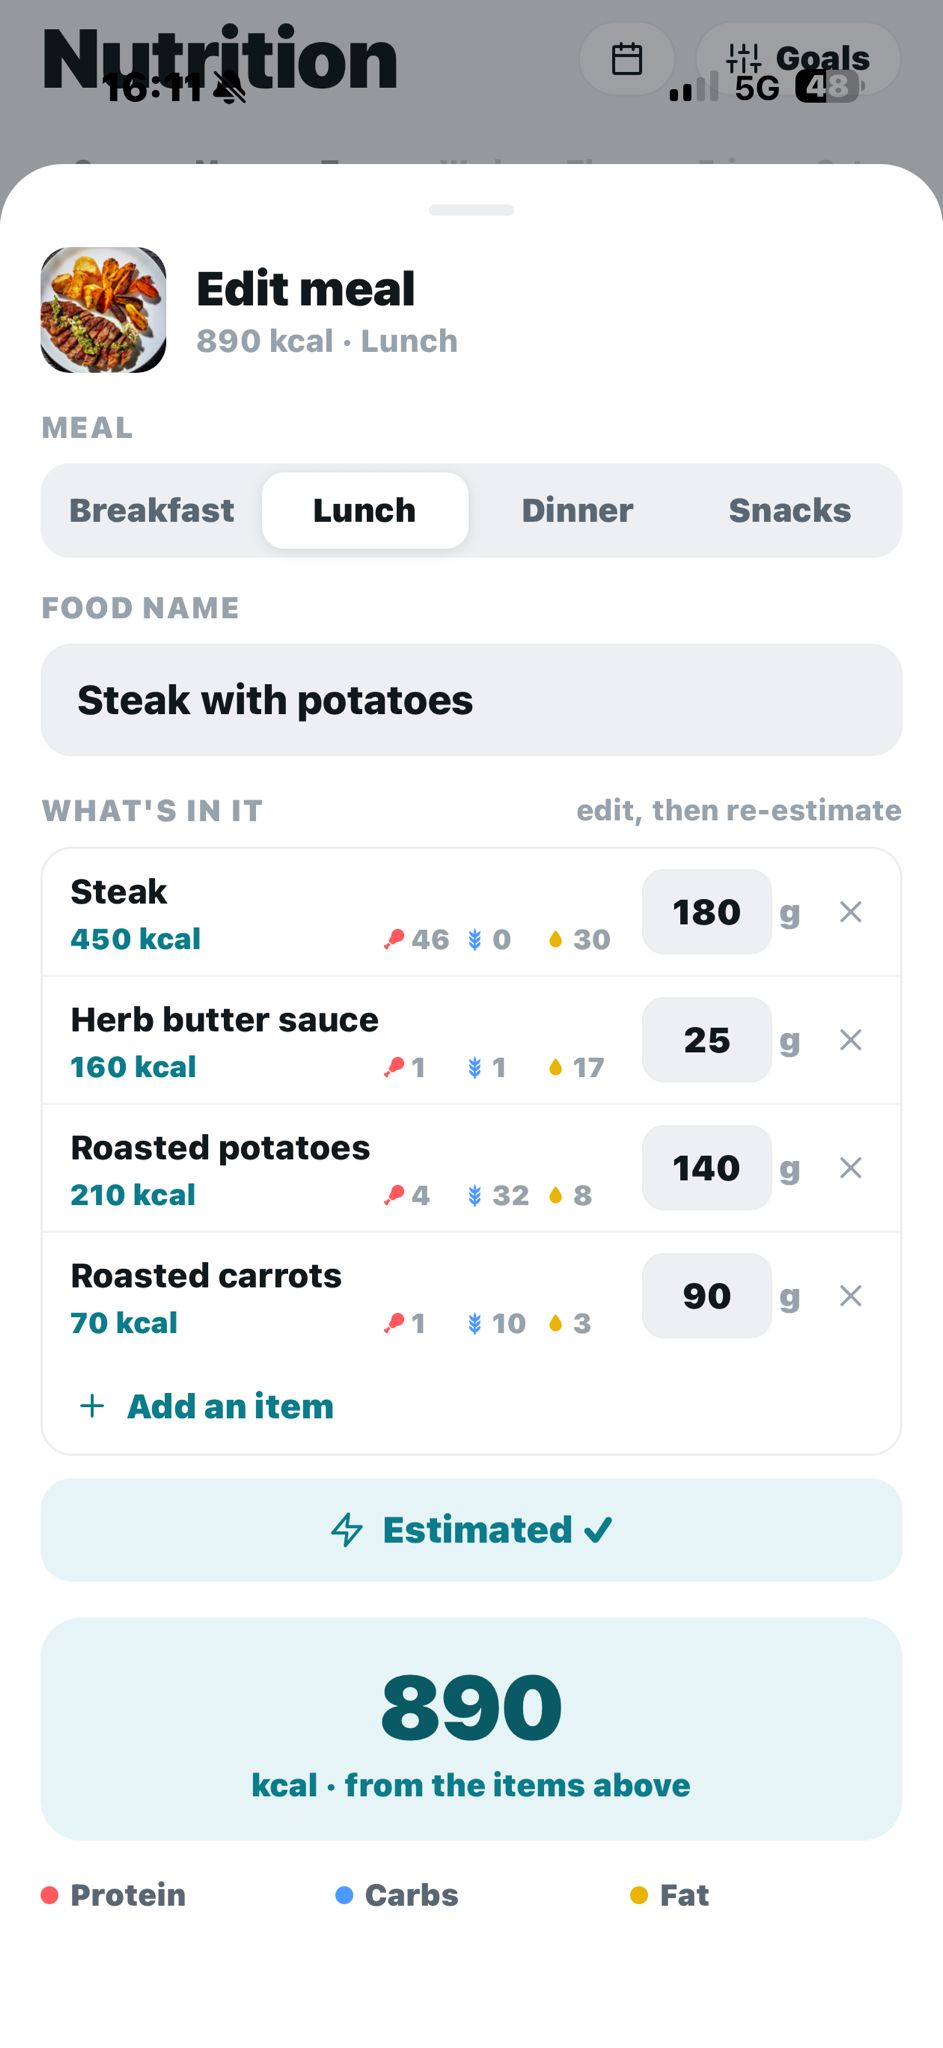
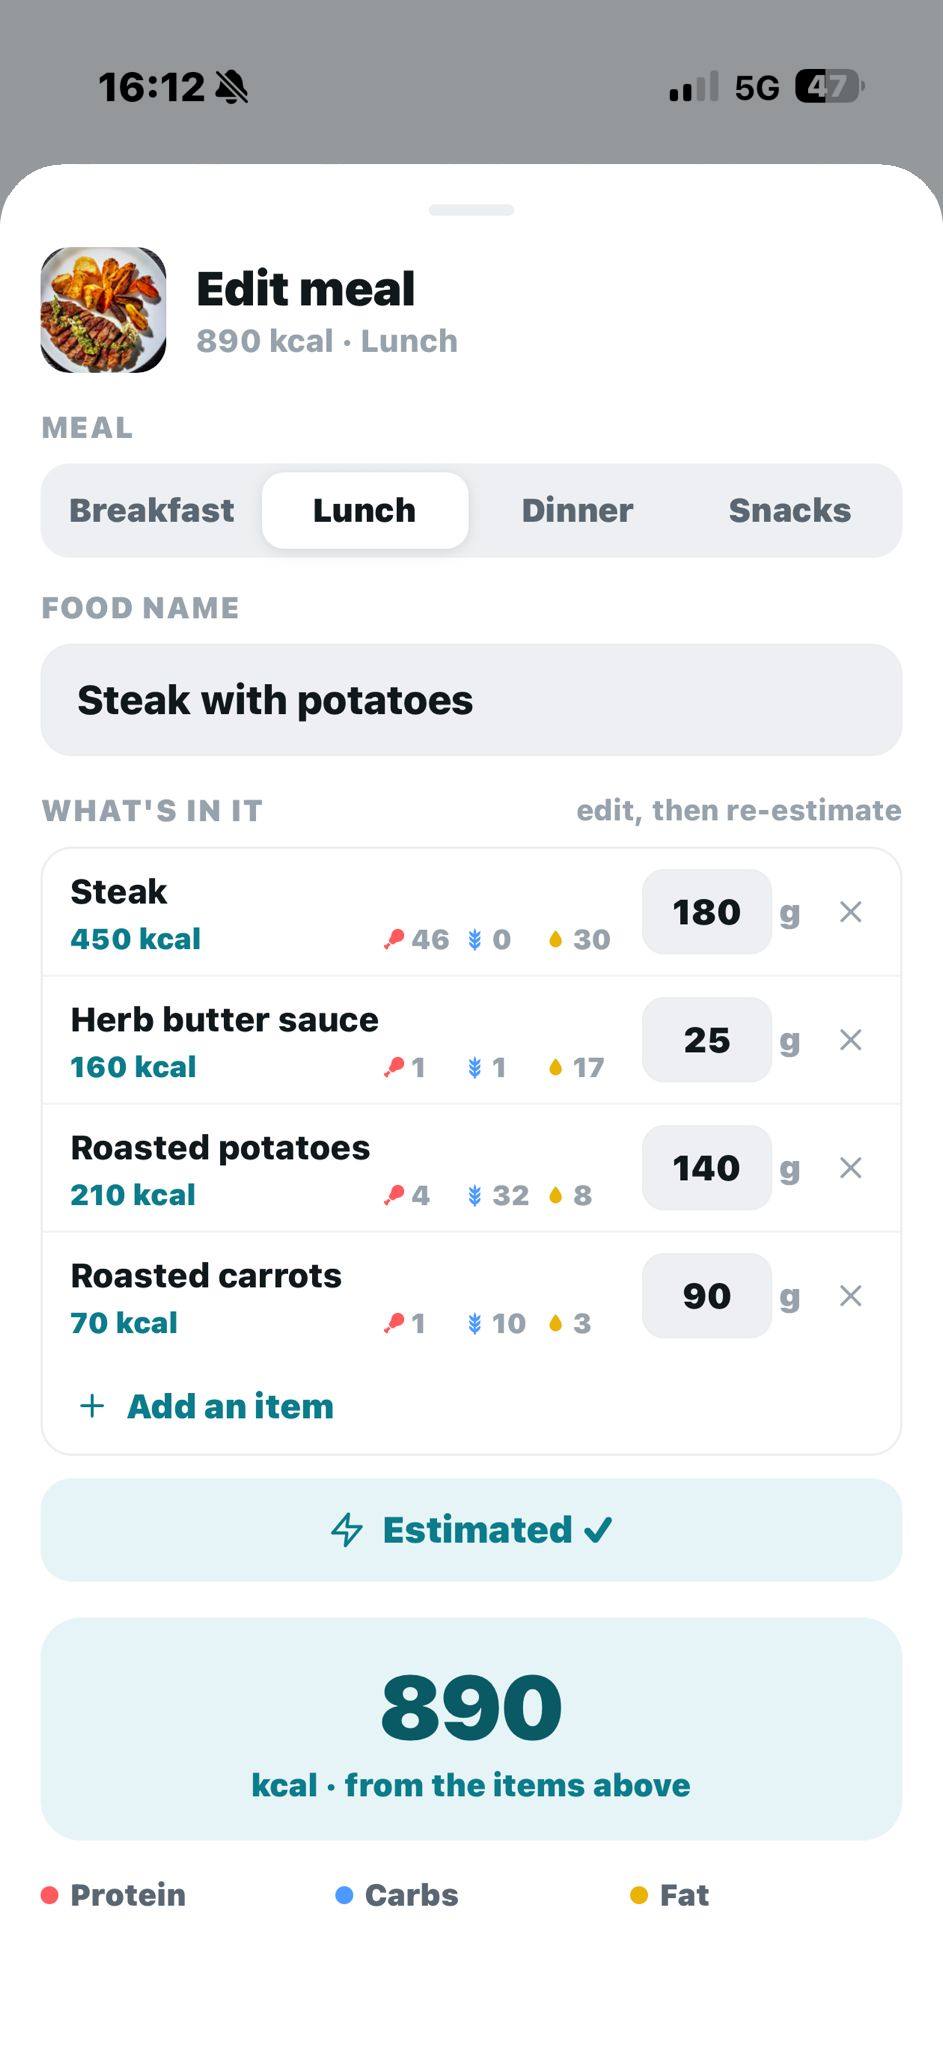
Homepage: realistic 3D phone frames, cleaned meal screenshot, new photo bands
- PhoneMockup renders pre-built 3D phone images (real screenshots composited into
  photographic iPhone renders, turned slightly left/right) instead of the drawn frame.
- Powered by AI chat screen rasterised so it uses the same real frame.
- Edit meal screenshot: removed the dimmed Nutrition header showing through.
- Photo bands: breakfast spread with a Sage scanner overlay, group run.

diff --git a/src/components/home/PhotoBand.tsx b/src/components/home/PhotoBand.tsx
@@ -2,13 +2,31 @@
 
 import { motion } from "framer-motion";
 
+/** Optional "Sage scanner" overlay, in IMAGE coordinates (% of the photo, not of the band), like the app's Scanner:
+ *  4 corner brackets around a region + a few floating food labels. Assumes a 3:1 photo. */
+interface ScanOverlay {
+  box: { left: number; top: number; right: number; bottom: number };
+  labels: { name: string; kcal: number; x: number; y: number }[];
+}
+
 interface PhotoBandProps {
   src: string;
   alt: string;
   priority?: boolean;
+  scan?: ScanOverlay;
 }
 
-export default function PhotoBand({ src, alt, priority = false }: PhotoBandProps) {
+function Corner({ pos }: { pos: "tl" | "tr" | "bl" | "br" }) {
+  const side = {
+    tl: "left-0 top-0 border-l-[3px] border-t-[3px] rounded-tl-xl",
+    tr: "right-0 top-0 border-r-[3px] border-t-[3px] rounded-tr-xl",
+    bl: "left-0 bottom-0 border-l-[3px] border-b-[3px] rounded-bl-xl",
+    br: "right-0 bottom-0 border-r-[3px] border-b-[3px] rounded-br-xl",
+  }[pos];
+  return <span className={`absolute h-7 w-7 border-white md:h-10 md:w-10 ${side}`} style={{ filter: "drop-shadow(0 1px 3px rgba(0,0,0,0.35))" }} />;
+}
+
+export default function PhotoBand({ src, alt, priority = false, scan }: PhotoBandProps) {
   return (
     <section className="py-6 md:py-8 bg-cream">
       <div className="max-w-[1200px] mx-auto px-5 md:px-8">
@@ -26,6 +44,34 @@ export default function PhotoBand({ src, alt, priority = false }: PhotoBandProps
             className="w-full h-[220px] md:h-[340px] object-cover"
             loading={priority ? "eager" : "lazy"}
           />
+          {scan && (
+            /* a layer with the photo's own 3:1 shape, sized like object-cover (band height 220 / 340 px), so the
+               % positions below stay on the same food on phone and desktop */
+            <div
+              aria-hidden="true"
+              className="pointer-events-none absolute left-1/2 top-1/2 aspect-[3/1] w-[max(100%,660px)] -translate-x-1/2 -translate-y-1/2 md:w-[max(100%,1020px)]"
+            >
+              <div
+                className="absolute"
+                style={{ left: `${scan.box.left}%`, top: `${scan.box.top}%`, right: `${100 - scan.box.right}%`, bottom: `${100 - scan.box.bottom}%` }}
+              >
+                <Corner pos="tl" />
+                <Corner pos="tr" />
+                <Corner pos="bl" />
+                <Corner pos="br" />
+              </div>
+              {scan.labels.map((l) => (
+                <span
+                  key={l.name}
+                  className="absolute -translate-x-1/2 -translate-y-1/2 rounded-xl bg-white/95 px-2.5 py-1.5 text-center shadow-[0_6px_18px_-6px_rgba(17,24,28,0.45)] md:px-3.5 md:py-2"
+                  style={{ left: `${l.x}%`, top: `${l.y}%` }}
+                >
+                  <span className="block text-[11px] font-bold leading-tight text-ink md:text-[13px]">{l.name}</span>
+                  <span className="block text-[11px] font-semibold leading-tight text-ink/70 md:text-[13px]">{l.kcal} kcal</span>
+                </span>
+              ))}
+            </div>
+          )}
           <span
             className="absolute inset-0 pointer-events-none"
             style={{

diff --git a/src/components/ui/PhoneMockup.tsx b/src/components/ui/PhoneMockup.tsx
@@ -5,6 +5,14 @@ interface PhoneMockupProps {
   children?: React.ReactNode;
   screenshotSrc?: string;
   screenshotAlt?: string;
+  /** Which way the realistic 3D phone is turned: "left" shows its left side edge, "right" its right side edge. */
+  tilt?: "left" | "right";
+}
+
+/** A screenshot at /images/screenshots/<name>.png has pre-rendered 3D phones at /images/screenshots/framed/<name>-l|r.png */
+function framedSrc(src: string, tilt: "left" | "right") {
+  const m = src.match(/^\/images\/screenshots\/([\w-]+)\.png$/);
+  return m ? `/images/screenshots/framed/${m[1]}-${tilt === "right" ? "r" : "l"}.png` : null;
 }
 
 const sizeMap = {
@@ -23,8 +31,26 @@ export default function PhoneMockup({
   children,
   screenshotSrc,
   screenshotAlt,
+  tilt = "left",
 }: PhoneMockupProps) {
   const { w, h } = sizeMap[size];
+
+  // real screenshot -> realistic 3D phone render (same height as the drawn frame, width follows the render)
+  const framed = screenshotSrc ? framedSrc(screenshotSrc, tilt) : null;
+  if (framed) {
+    return (
+      <div className={`phone-mockup relative flex shrink-0 justify-center ${className}`} style={{ height: h, minWidth: w }}>
+        {/* eslint-disable-next-line @next/next/no-img-element */}
+        <img
+          src={framed}
+          alt={screenshotAlt ?? label}
+          style={{ height: h, width: "auto", display: "block", filter: "drop-shadow(0 28px 36px rgba(17,24,28,0.22))" }}
+          className="select-none pointer-events-none"
+          draggable={false}
+        />
+      </div>
+    );
+  }
   const screenW = w - SCREEN_INSET * 2;
   const screenH = h - SCREEN_INSET * 2;
 

diff --git a/src/components/home/Hero.tsx b/src/components/home/Hero.tsx
@@ -132,13 +132,15 @@ export default function Hero() {
             label="Sage home screen"
             screenshotSrc="/images/screenshots/screenshot-home-today.png"
             screenshotAlt="Sage home — today's calorie ring, macros, and logged meals"
-            className="z-10 -mb-2 shadow-2xl"
+            tilt="right"
+            className="z-10 -mb-2"
           />
 
-          {/* Left phone — slightly smaller, tilted */}
-          <div className="hidden sm:block" style={{ transform: "translateY(40px) rotate(-5deg)", opacity: 0.85 }}>
+          {/* Left phone — slightly smaller, turned (3D render) */}
+          <div className="hidden sm:block" style={{ transform: "translateY(40px)", opacity: 0.85 }}>
             <PhoneMockup
               size="md"
+              tilt="left"
               label="Meal photo logging"
               screenshotSrc="/images/screenshots/screenshot-meal-logging.png"
               screenshotAlt="Snap a photo of your meal — Sage analyses calories and macros instantly"
@@ -146,9 +148,10 @@ export default function Hero() {
           </div>
 
           {/* Right phone */}
-          <div className="hidden sm:block" style={{ transform: "translateY(40px) rotate(5deg)", opacity: 0.85 }}>
+          <div className="hidden sm:block" style={{ transform: "translateY(40px)", opacity: 0.85 }}>
             <PhoneMockup
               size="md"
+              tilt="right"
               label="AI coach chat"
               screenshotSrc="/images/screenshots/screenshot-coach-chat.png"
               screenshotAlt="Chat with your AI fitness coach — personalised, always available"

diff --git a/src/app/page.tsx b/src/app/page.tsx
@@ -15,12 +15,23 @@ export default function HomePage() {
     <>
       <Hero />
       <HowItWorks />
-      <PhotoBand src="/images/home/healthy-meal.jpg" alt="A colourful, balanced meal" />
+      <PhotoBand
+        src="/images/home/breakfast-spread.png"
+        alt="A breakfast table with eggs, cheese, vegetables and fresh bread"
+        scan={{
+          box: { left: 30, top: 20, right: 72, bottom: 94 },
+          labels: [
+            { name: "Olives", kcal: 60, x: 53, y: 25 },
+            { name: "Cheese", kcal: 190, x: 36, y: 60 },
+            { name: "Tomatoes", kcal: 25, x: 67, y: 72 },
+          ],
+        }}
+      />
       <PoweredByAI />
       <WorkWithCoach />
       <WhatsInside />
       <FeatureGrid />
-      <PhotoBand src="/images/home/active-lifestyle.jpg" alt="A runner outdoors at sunset" />
+      <PhotoBand src="/images/home/group-run.png" alt="A group of friends running together on a sunny day" />
       <Pricing />
       <FAQ />
       <CoachBanner />

diff --git a/src/components/home/PoweredByAI.tsx b/src/components/home/PoweredByAI.tsx
@@ -193,9 +193,14 @@ export default function PoweredByAI() {
                 className="absolute inset-0 rounded-full blur-3xl opacity-20 bg-primary"
                 style={{ transform: "scale(0.8)" }}
               />
-              <PhoneMockup size="lg" className="relative z-10">
-                <ChatMockup />
-              </PhoneMockup>
+              {/* the chat screen (ChatMockup, rasterised to screenshot-ai-chat.png) in the realistic 3D phone */}
+              <PhoneMockup
+                size="lg"
+                tilt="left"
+                screenshotSrc="/images/screenshots/screenshot-ai-chat.png"
+                screenshotAlt="Sage coach chat — what did I have for lunch, am I on track"
+                className="relative z-10"
+              />
             </div>
           </motion.div>
         </div>

diff --git a/src/components/home/HowItWorks.tsx b/src/components/home/HowItWorks.tsx
@@ -96,6 +96,7 @@ export default function HowItWorks() {
               <div className="relative mb-8">
                 <PhoneMockup
                   size="md"
+                  tilt={parseInt(step.number, 10) % 2 === 0 ? "right" : "left"}
                   label={step.mockupLabel}
                   screenshotSrc={step.screenshotSrc}
                   screenshotAlt={step.screenshotAlt}

diff --git a/src/components/home/WhatsInside.tsx b/src/components/home/WhatsInside.tsx
@@ -114,6 +114,7 @@ function FeatureRow({ row, index }: { row: Row; index: number }) {
     >
       <PhoneMockup
         size="lg"
+        tilt={isImageLeft ? "right" : "left"}
         label={row.mockupScreenLabel}
         screenshotSrc={row.screenshotSrc}
         screenshotAlt={row.screenshotAlt}
